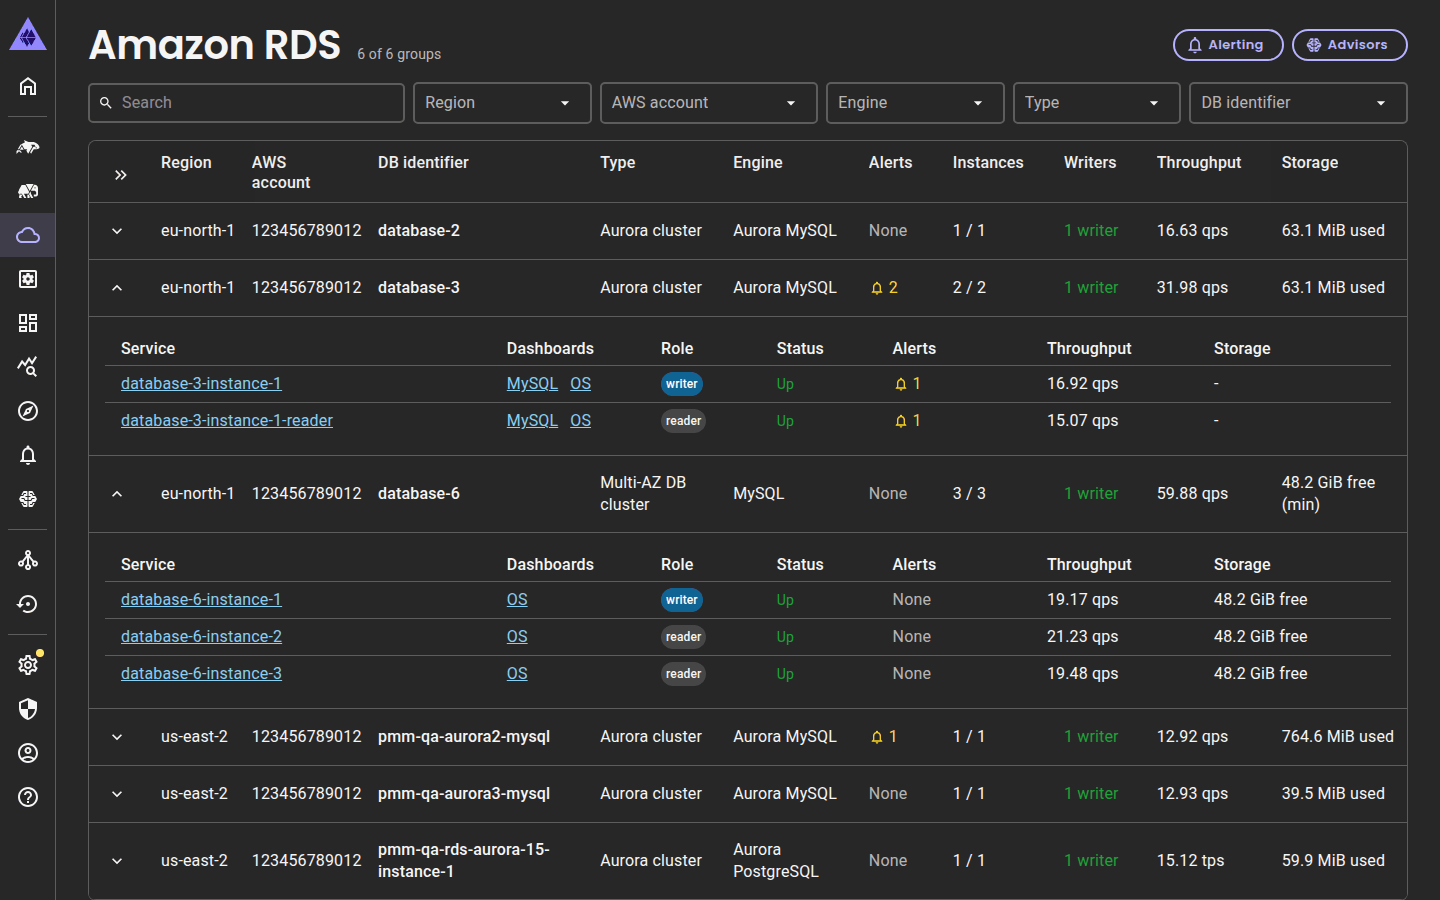
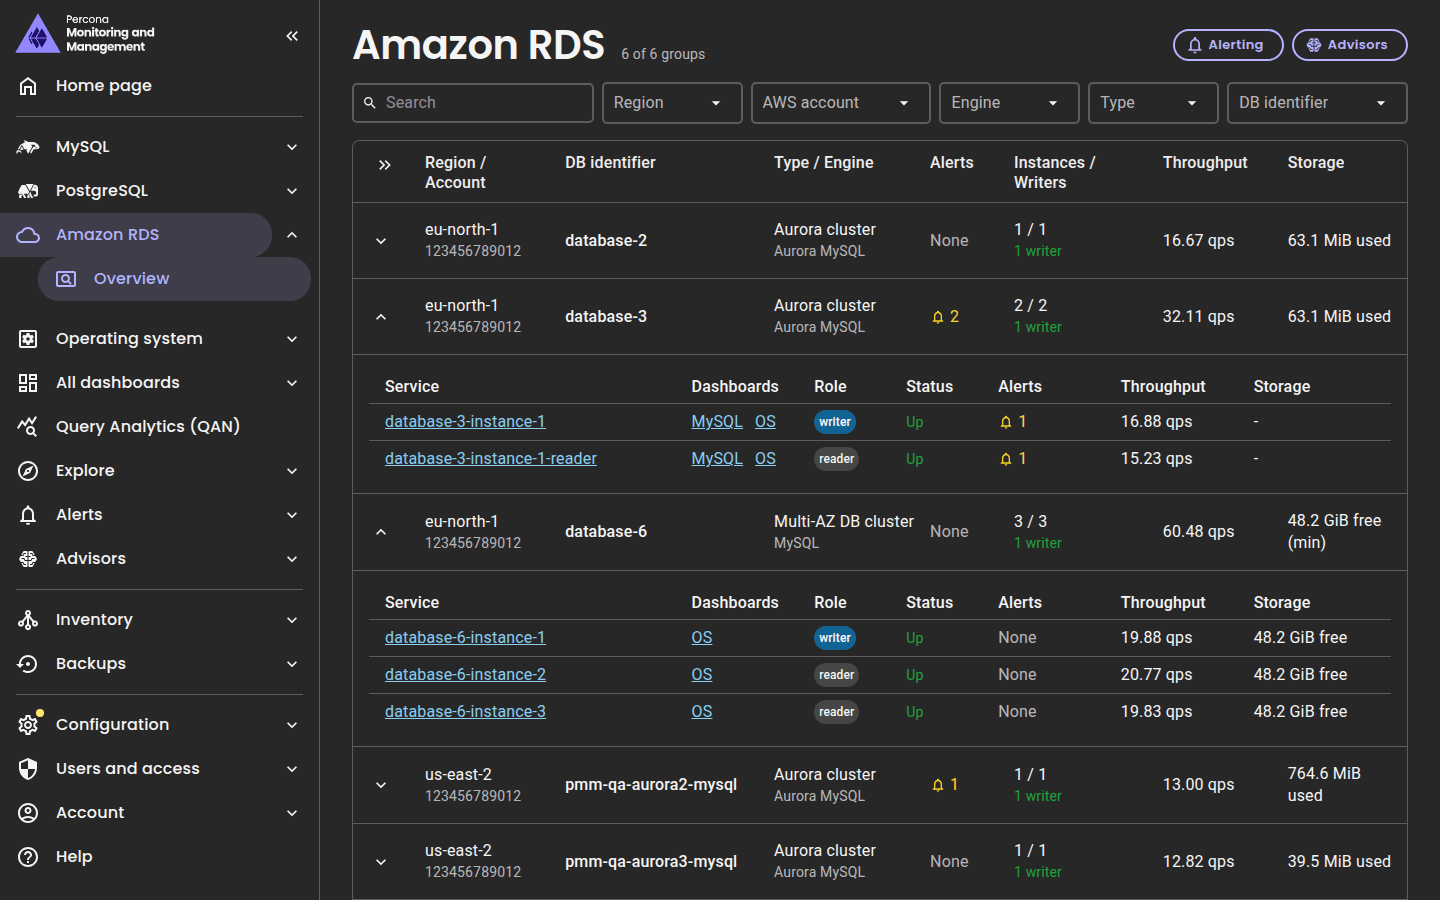
PMM-15868 Document the stacked RDS table columns
The column table names the merged Region / Account, Type / Engine and
Instances / Writers columns, and the screenshot shows them beside the
expanded side menu.

Claude-Session: https://claude.ai/code/session_018YUBpUiGDtcGhriiYqrHBR

diff --git a/documentation/docs/use/amazon-rds-overview.md b/documentation/docs/use/amazon-rds-overview.md
@@ -17,7 +17,7 @@ You don't need to change any IAM permissions. PMM lists the instances it has no 
 
 ## Groups
 
-The page shows one row per group of instances. The **Type** column says how PMM grouped them:
+The page shows one row per group of instances. The **Type / Engine** column says how PMM grouped them, with the database engine below:
 
 | Type | Instances in the group |
 |------|------------------------|
@@ -31,12 +31,11 @@ The other columns of a group are:
 
 | Column | What it shows |
 |--------|---------------|
-| **Region**, **AWS account** | Where the group runs |
+| **Region / Account** | The AWS region, with the AWS account below it |
 | **DB identifier** | The cluster identifier, or the identifier of the primary or standalone instance |
-| **Engine** | Aurora MySQL, Aurora PostgreSQL, MySQL, MariaDB or PostgreSQL |
+| **Type / Engine** | The group type from the table above, with Aurora MySQL, Aurora PostgreSQL, MySQL, MariaDB or PostgreSQL below it |
 | **Alerts** | The number of firing alerts of the instances. See [Alerts](#alerts) |
-| **Instances** | How many instances have their exporter connected to the database, out of the instances that PMM monitors. For example, **2 / 3** |
-| **Writers** | The number of writer instances, normally **1 writer**. **no writer** and more than one writer show in a warning color. **unknown** means that the instances don't report their role |
+| **Instances / Writers** | How many instances have their exporter connected to the database, out of the instances that PMM monitors, for example **2 / 3**. Below it, the number of writer instances, normally **1 writer**. **no writer** and more than one writer show in a warning color. **unknown** means that the instances don't report their role |
 | **Throughput** | For Aurora MySQL, MySQL and MariaDB, the queries per second (qps). For Aurora PostgreSQL and PostgreSQL, the transactions per second (tps): commits plus rollbacks |
 | **Storage** | For Aurora, the cluster volume used. For other engines, the free storage space; a group shows its lowest instance, marked **(min)** |
 
